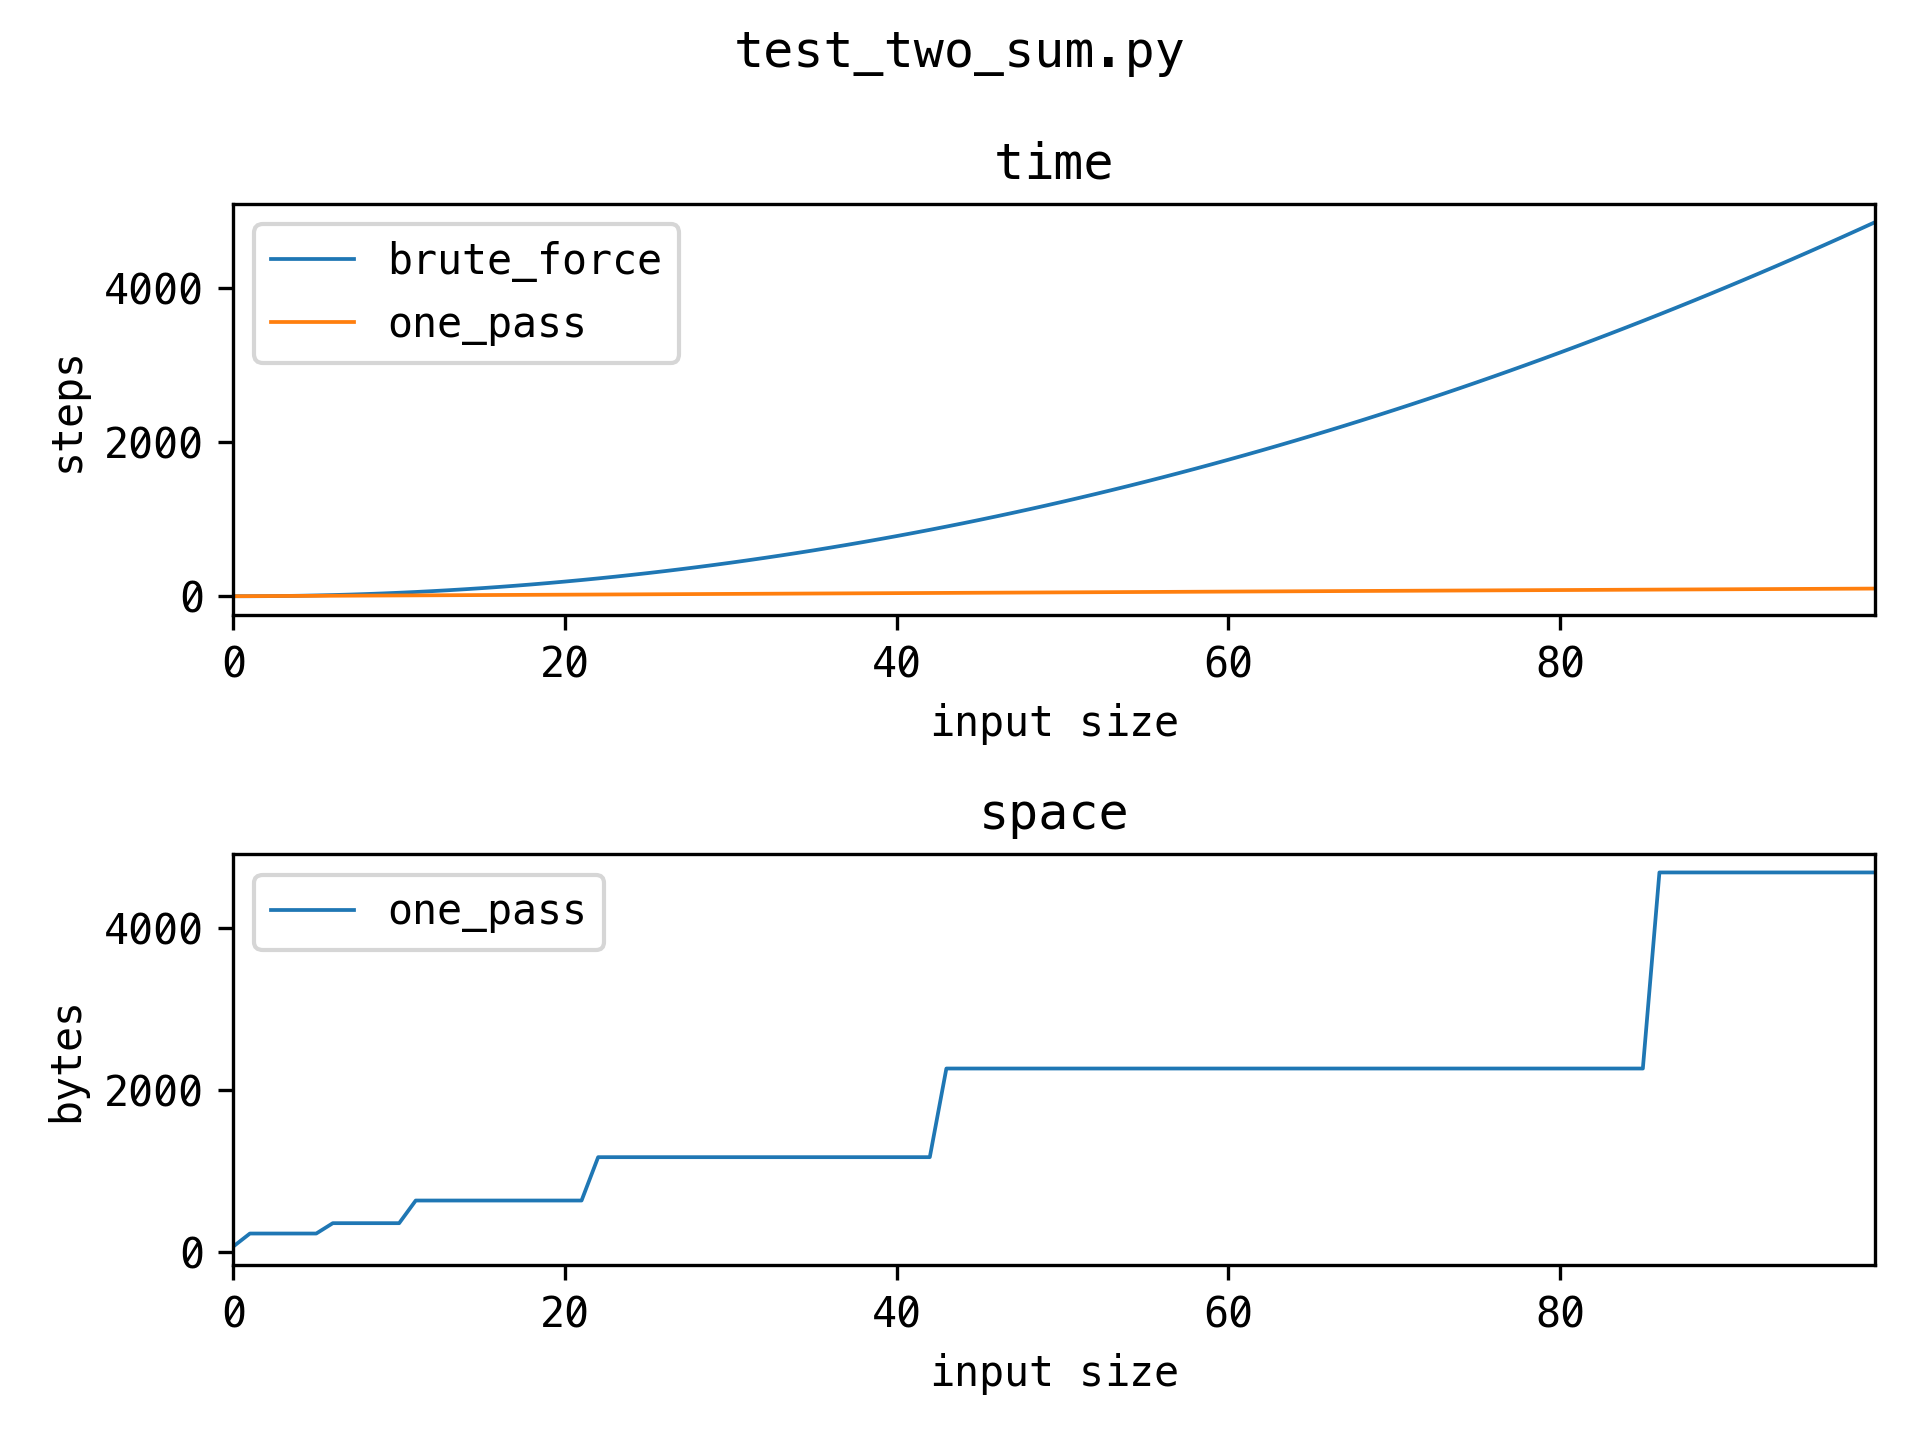
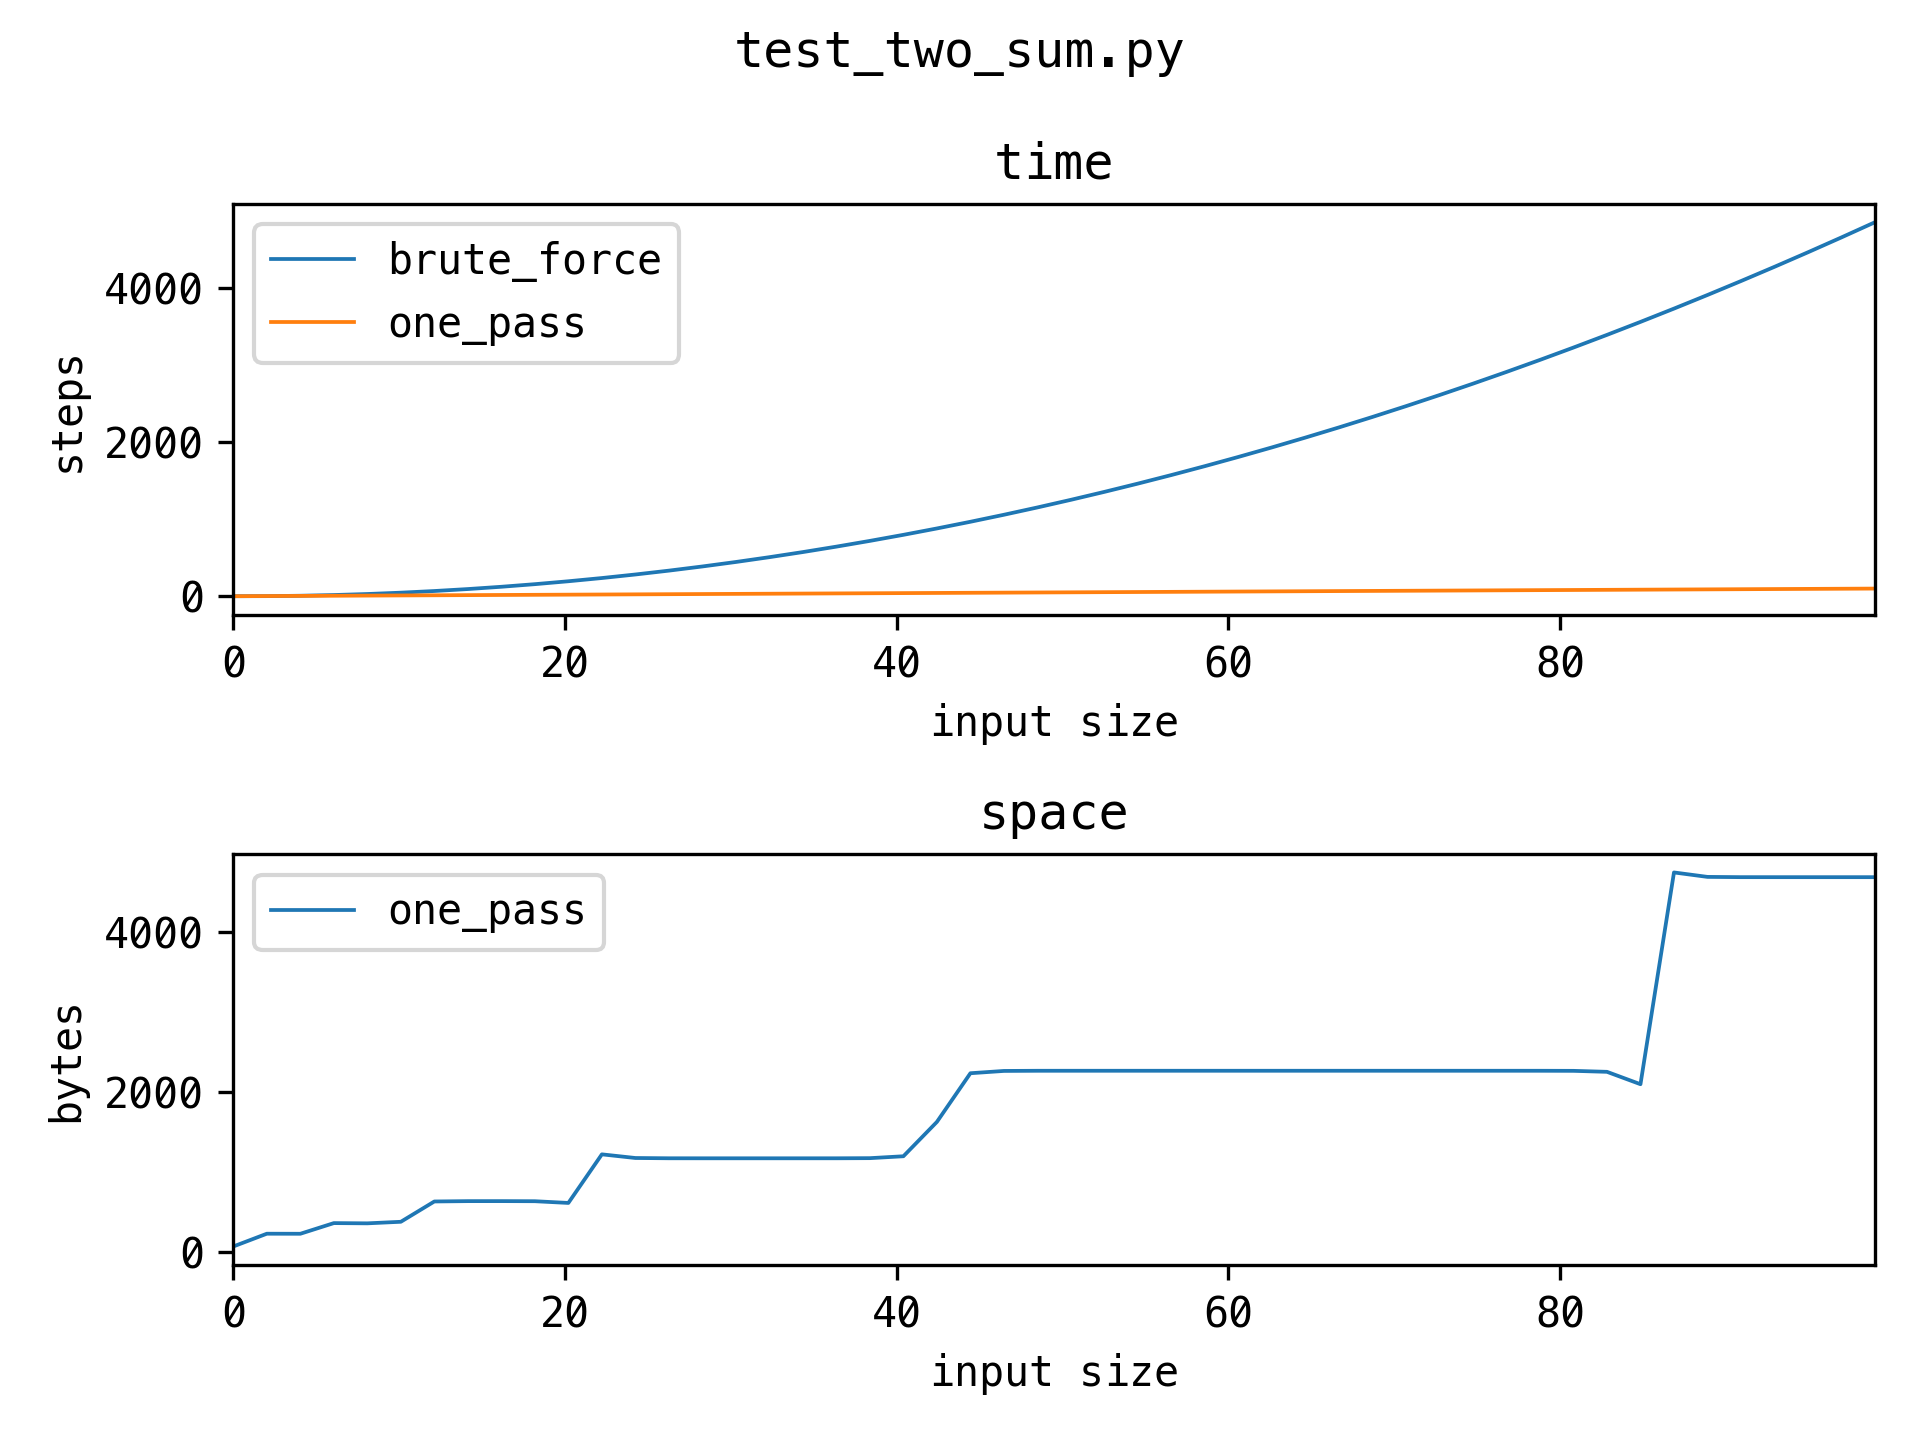
Smooth lines

diff --git a/src/utils/complexity.py b/src/utils/complexity.py
@@ -2,6 +2,8 @@ import sys
 from pathlib import Path
 
 import matplotlib.pyplot as plt
+import numpy as np
+from scipy.interpolate import make_interp_spline
 
 plt.rcParams["font.family"] = "Menlo"
 
@@ -69,7 +71,22 @@ class Complexity:
 
         for category, ax, xlabel, ylabel in subplots:
             for name, values in data[category].items():
-                ax.plot(values["x"], values["y"], label=name, linewidth=0.9)
+                line_props = {
+                    "label": name,
+                    "linewidth": 0.9,
+                }
+                x = np.array(values["x"])
+                y = np.array(values["y"])
+                try:
+                    xsmooth = np.linspace(x.min(), x.max())
+                    ysmooth = make_interp_spline(x, y)(xsmooth)
+                    ax.plot(
+                        xsmooth,
+                        ysmooth,
+                        **line_props,
+                    )
+                except ValueError:
+                    ax.plot(x, y, **line_props)
             ax.set(title=category, xlabel=xlabel, ylabel=ylabel)
             ax.margins(x=0)
             ax.legend()
